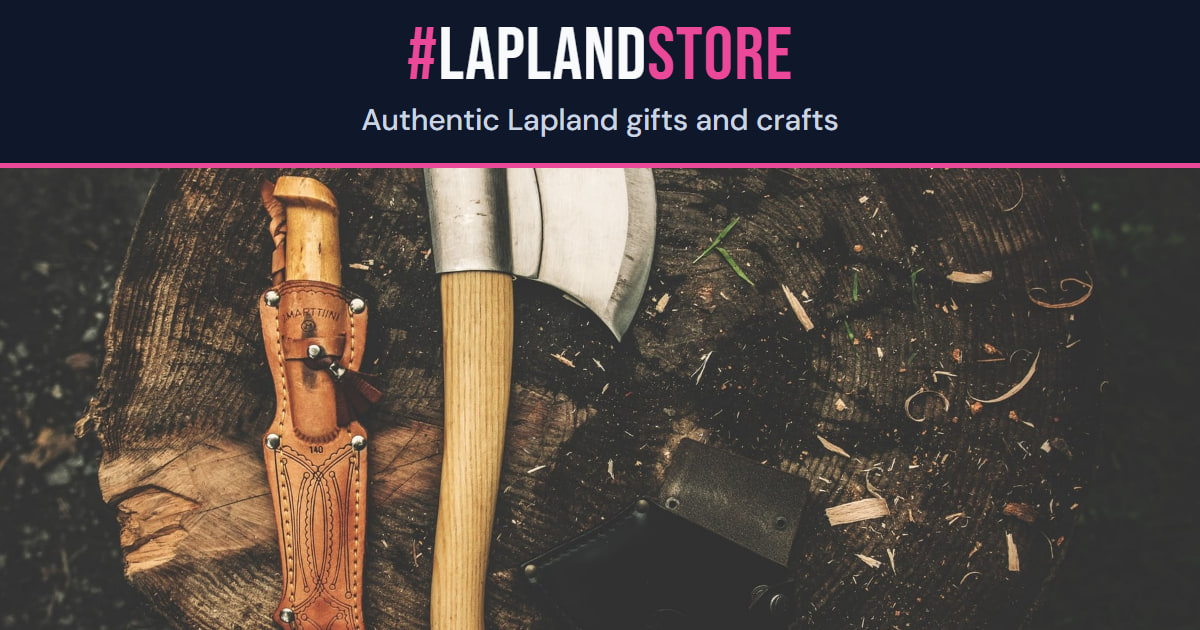
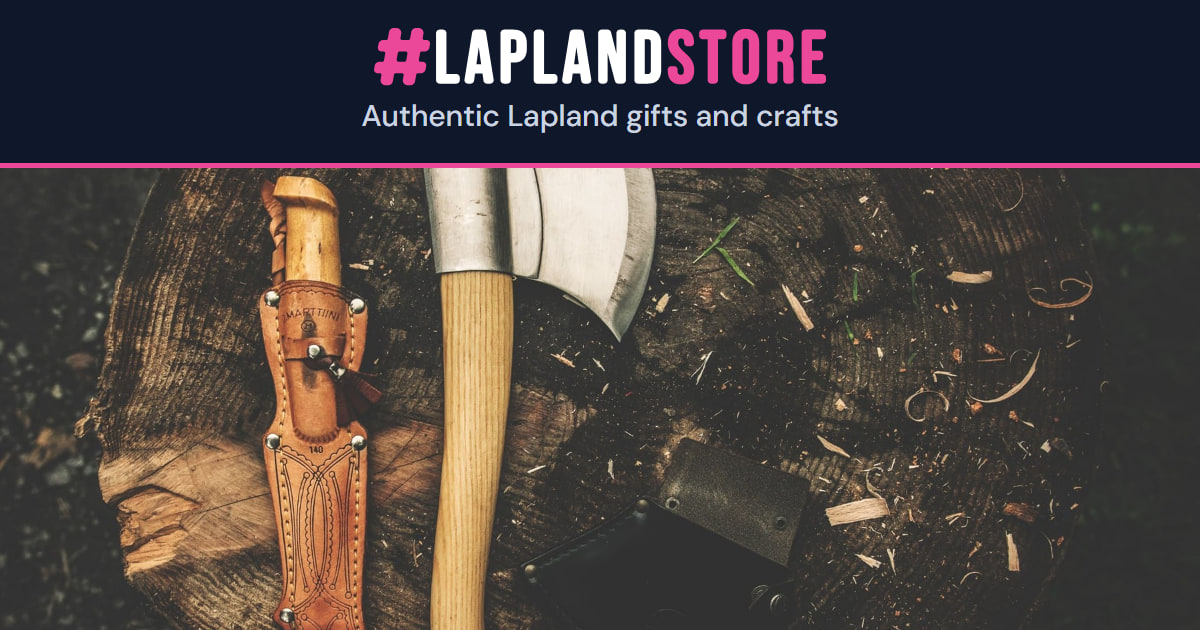
Jakokuvat: sanamerkki virallisessa muodossa (tekstilogo B)
Vesa 15.11.2026: "korjaa jakokuvat". Sivustokortti ja sivukortit tehty uudelleen
lv-opsin scripts/og/card.mjs:llä, joka piirtää #LAPLAND<NIMI>-merkin virallisen
tekstilogon muodossa (lv-ops da94f847: tee_sanamerkit.mjs, sama menetelmä kuin
14.11. hyväksytty #LAPLANDVIBES). Kuvat, rivit ja asettelu ennallaan; uusi ?v=
lasketaan kortin sisällöstä (install.mjs, gen_page_cards.mjs).

Changed region(s): [[0.2775, 0.0302, 0.7092, 0.2111]]

diff --git a/index.html b/index.html
@@ -196,15 +196,15 @@
       });
     </script>
       <!-- Open Graph image (1200×630 JPEG) -->
-    <meta property="og:image" content="https://laplandstore.fi/og.jpg?v=73b82411" />
-    <meta property="og:image:secure_url" content="https://laplandstore.fi/og.jpg?v=73b82411" />
+    <meta property="og:image" content="https://laplandstore.fi/og.jpg?v=29f15998" />
+    <meta property="og:image:secure_url" content="https://laplandstore.fi/og.jpg?v=29f15998" />
     <meta property="og:image:type" content="image/jpeg" />
     <meta property="og:image:width" content="1200" />
     <meta property="og:image:height" content="630" />
     <meta property="og:image:alt" content="A leather-sheathed puukko knife and a wooden-handled axe on a tree stump among wood chips. #LAPLANDSTORE" />
     <!-- Twitter card -->
     <meta name="twitter:card" content="summary_large_image" />
-    <meta name="twitter:image" content="https://laplandstore.fi/og.jpg?v=73b82411" />
+    <meta name="twitter:image" content="https://laplandstore.fi/og.jpg?v=29f15998" />
     <meta name="twitter:image:alt" content="A leather-sheathed puukko knife and a wooden-handled axe on a tree stump among wood chips. #LAPLANDSTORE" />
       <!-- Favicon stack (LV ecosystem unified design) -->
     <link rel="icon" href="/favicon.svg?v=20261114" type="image/svg+xml" />
